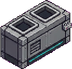
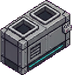
製造機のサイズを規程どおりに揃え、絵に「スロットの穴」を要求しないようにした
生成された絵は台ごとにマスピッチが違う(アラビアで1マス 92/69/58/48px)ため、
幅だけを占有外周に合わせると長い台ほど筐体が高くなっていた(実測 normal で
1.04→1.42 CELL、arabia で 0.91→1.17 CELL)。同じ機械の長さ違いなので誤り。

- cut_machines.py: 幅=占有外周の幅 / 高さ=占有外周の高さ+共通の筐体高(4台の中央値)
  として縦横別々に合わせる。歪みは最大9%で、15%を超えたら警告を出す
- 素材アイコンは占有マスの真上に置く方式に変更。絵の意匠に依存しないので
  スロットの穴を描く必要がなくなった。mach-fit.json と穴検出は廃止

diff --git a/game/main.js b/game/main.js
@@ -222,13 +222,13 @@ class Main extends Phaser.Scene {
     for(const n of ['haunted','pirate','circuit','dwarf','hell','steampunk','retrofuture','tokyo','halloween','western','sushi','beehive','circus','carnival','desert','jungle','egypt','christmas','space','ice','mushroom','onsen']) this.load.image('room_'+n, `assets/room-${n}.png`);
     for(const n of PROP_NAMES) this.load.image('prop_'+n, `assets/prop_${n}.png`);
     for(const s of SKINS) if(s.id!=='none') this.load.image('hat_'+s.id, `assets/hat-${s.id}.png`);   // 被り物。未生成でもPhaserは欠損扱い→描画側でexistsチェック
-    this.load.text('hatfit','assets/hat-fit.json');   // 被り物ごとのツバ中心(cx=幅比)。非対称な飾りでも頭の中心で被る(machfitと同じ理由でtext読み)
+    this.load.text('hatfit','assets/hat-fit.json');   // 被り物ごとのツバ中心(cx=幅比)。非対称な飾りでも頭の中心で被る(load.json は中身が壊れるとローダーごと落ちるので text 読み)
     for(const d of DECOR) this.load.image('dec_'+d, `assets/obj_${d}.png`);
     // 製造機スプライト(Stitch製)。命名規約 mach_<theme>_s<N>。無いテーマは normal → 手続き描画 の順にフォールバック
     for(const th of MACH_ART) for(const n of MACH_SIZES) this.load.image(`mach_${th}_s${n}`, `assets/mach-${th}-s${n}.png`);
     // 絵から実測したスロット中心(幅/高さ比)。素材アイコンを穴にぴったり載せる。
     // load.json は中身が壊れているとローダーごと例外で落ちる(=create()が走らない)ので text で読んで自前parse
-    this.load.text('machfit','assets/mach-fit.json');
+
   }
   create(){
     this.bgImg=this.add.image(0,0,'bg_room').setOrigin(0,0).setDisplaySize(W,H).setDepth(-1000);
@@ -345,14 +345,6 @@ class Main extends Phaser.Scene {
   hatFit(){ if(this._hatFit) return this._hatFit;
     try{ this._hatFit=JSON.parse(this.cache.text.get('hatfit')||'{}'); }catch(_){ this._hatFit={}; }
     return this._hatFit; }
-  machFit(){ if(this._machFit) return this._machFit;
-    try{ this._machFit=JSON.parse(this.cache.text.get('machfit')||'{}'); }catch(_){ this._machFit={}; }
-    return this._machFit; }
-  machSlotPts(tex, img, flip){
-    const fit=((this.machFit()[tex.theme])||{})[String(tex.n)];
-    if(!fit) return null;
-    const L=img.x-img.displayWidth/2, T=img.y-img.displayHeight;
-    return fit.map(([fx,fy])=>({ x:L+(flip?1-fx:fx)*img.displayWidth, y:T+fy*img.displayHeight })); }
   _makeMachine(e, objs){
     const sk=this.partsSkin();
     const [A,B,C,D]=this._machFootprint(e);
@@ -361,7 +353,7 @@ class Main extends Phaser.Scene {
     const u=(e.cell.c+0.5)/GU, v=(e.cell.r+0.5)/GV, tint=this.tintByLight(u,v);
     const tex=this.machTex(e);
     const g=this.add.graphics().setDepth(C.y+0.1); objs.push(g); e._gfx=g;
-    let HG, slotPts=null;   // 天面の高さ(px) / スロット中心(スプライトのときは絵から実測)
+    let HG;   // 天面の高さ(px)。素材アイコンはこのぶん持ち上げて各マスの真上に置く
     if(tex){
       // 素材の footprint 幅はゲーム側の占有外周と一致するよう焼いてある(tools/cut_machines.py)
       const img=this.add.image((bx0+bx1)/2, by1, tex.key).setOrigin(0.5,1).setDepth(C.y).setTint(tint);
@@ -369,7 +361,6 @@ class Main extends Phaser.Scene {
       if(e.dir==='v') img.setFlipX(true);   // 素材はu方向。v方向は左右反転で角度が合う
       objs.push(img); e._lit=img; this.lit.push({sp:img,u,v});
       HG = Math.max(2, img.displayHeight-(by1-by0));
-      slotPts = this.machSlotPts(tex, img, e.dir==='v');
       const sh=this.add.image((bx0+bx1)/2+3, by1-2, 'shadow').setDepth(C.y-0.5)
         .setDisplaySize((bx1-bx0)*0.95,(by1-by0)*0.7).setAlpha(0.42); objs.push(sh);
     } else {
@@ -393,10 +384,11 @@ class Main extends Phaser.Scene {
     const SL=MACH_GEO.slot;
     this.cellsOf(e).forEach((q,idx)=>{
       const mat=e.slots[idx], m=mat&&MAT_ART[mat];
-      const ctr = (slotPts && slotPts[idx]) || up(cellXY(q.c,q.r));   // 絵の実測位置 > 計算位置
-      if(slotPts){ if(m){ g.fillStyle(m.c,0.5); g.fillEllipse(ctr.x,ctr.y,CELL*0.46,CELL*0.24);
-                          g.lineStyle(1.5,sk.glow,0.85); g.strokeEllipse(ctr.x,ctr.y,CELL*0.46,CELL*0.24); } }
-      else {   // 手続き描画: 穴そのものを描く
+      const ctr = up(cellXY(q.c,q.r));   // 各マスの中心の真上。筐体高さは4台で揃えてある
+      if(tex){ // スプライトは意匠が自由なので穴は描かない。素材が入っているマスだけ光らせる
+        if(m){ g.fillStyle(m.c,0.5); g.fillEllipse(ctr.x,ctr.y,CELL*0.46,CELL*0.24);
+               g.lineStyle(1.5,sk.glow,0.85); g.strokeEllipse(ctr.x,ctr.y,CELL*0.46,CELL*0.24); } }
+      else {   // 手続き描画のときだけ、置き場が分かるよう穴を描く
         const s0=uvXY((q.c+0.5-SL/2)/GU,(q.r+0.5-SL/2)/GV), s1=uvXY((q.c+0.5+SL/2)/GU,(q.r+0.5-SL/2)/GV);
         const s2=uvXY((q.c+0.5+SL/2)/GU,(q.r+0.5+SL/2)/GV), s3=uvXY((q.c+0.5-SL/2)/GU,(q.r+0.5+SL/2)/GV);
         const poly=[s0,s1,s2,s3].map(up);

diff --git a/tools/cut_machines.py b/tools/cut_machines.py
@@ -4,12 +4,14 @@
     使い方: python3 tools/cut_machines.py
 
 入力 : assets/mach-sheets/<theme>.png   … 左上から 2/3/4/5 マス機の順(2x2)
-出力 : assets/mach-<theme>-s<N>.png     … 透過PNG・ゲーム内の表示幅ちょうど
-       assets/mach-fit.json             … 素材ごとのスロット中心(スプライト幅/高さに対する比)
+出力 : assets/mach-<theme>-s<N>.png     … 透過PNG・ゲーム内の表示サイズちょうど
 
-なぜ mach-fit.json が要るか:
-  絵の筐体の比率は、ゲーム側で計算する占有外周の比率とぴったりは一致しない。
-  スロット位置を計算で出すと素材アイコンが絵の穴からズレるので、絵から実測して持たせる。
+サイズの決め方（ここが肝）:
+  4台は「同じ機械の長さ違い」なので、**筐体の高さは4台とも同じ**でなければならない。
+  ところが生成された絵は台ごとにマスピッチが違う（例: アラビアで1マス 92/69/58/48px）。
+  幅だけ占有外周に合わせると、長い台ほど筐体が高くなってしまう（実測で最大+37%）。
+  そこで幅=占有外周の幅、高さ=占有外周の高さ+共通の筐体高、として**縦横別々に**合わせる。
+  共通の筐体高は4台の中央値。歪みは数%に収まるが、閾値を超えたら警告を出す。
 
 なぜ表示幅まで縮小するか:
   Phaser は pixelArt:true (NEAREST) なので、245px の素材を 155px で描くとピクセルが
@@ -92,7 +94,7 @@ def key_out(im):
     return im
 
 
-def slot_centers(sp, n):
+def _unused_slot_centers(sp, n):
     """スプライトから凹みスロットの中心を実測する。
     穴は「面積のある暗い塊」。輪郭線と区別するため収縮して残るものだけを拾う。"""
     w, h = sp.size
@@ -162,9 +164,16 @@ def slot_centers(sp, n):
     return cs
 
 
+def target_height(n, W, H, GU, GV, iso, IN):
+    """u方向にNマス並べたときの、占有外周の画面bbox高さ(px)。筐体の高さは含まない"""
+    return abs((n - 2 * IN) / GU * iso['uy'] * H) + abs((1 - 2 * IN) / GV * iso['vy'] * H)
+
+
+MAX_WARP = 0.15   # 縦の歪みがこれを超えたら警告(背の高い意匠を潰している可能性)
+
+
 def main():
     W, H, GU, GV, iso, IN = main_js_consts()
-    fit = {}
     for f in sorted(os.listdir(SHEETS)):
         if not f.lower().endswith('.png'):
             continue
@@ -172,6 +181,8 @@ def main():
         sheet = key_out(Image.open(os.path.join(SHEETS, f)))
         sw, sh = sheet.size
         print(f'== {f} ({sw}x{sh})')
+        # 1周目: 切り出して、幅を占有外周に合わせたときの「筐体の高さ」を測る
+        cut = []
         for i, n in enumerate(SIZES):
             cx, cy = i % COLS, i // COLS
             quad = sheet.crop((cx * sw // COLS, cy * sh // ROWS,
@@ -181,26 +192,26 @@ def main():
                 print(f'   s{n}: 中身なし・スキップ'); continue
             sp = quad.crop(bb)
             tw = target_width(n, W, H, GU, GV, iso, IN)
-            th = max(1, round(sp.height * tw / sp.width))
-            out = sp.resize((round(tw), th), Image.LANCZOS)
+            fh = target_height(n, W, H, GU, GV, iso, IN)
+            hw = sp.height * tw / sp.width          # 幅だけ合わせたときの高さ
+            cut.append((n, sp, tw, fh, hw - fh))    # 末尾 = そのときの筐体高
+        if not cut:
+            continue
+        bodies = sorted(c[4] for c in cut)
+        body = bodies[len(bodies) // 2]             # 共通の筐体高 = 中央値
+        print(f'   共通の筐体高 = {body:.1f}px (実測 {", ".join(f"{c[4]:.0f}" for c in cut)})')
+
+        # 2周目: 幅=占有外周の幅 / 高さ=占有外周の高さ+共通の筐体高 で焼く
+        for n, sp, tw, fh, b in cut:
+            th = fh + body
+            warp = th / (fh + b) - 1                # 縦の歪み
+            out = sp.resize((round(tw), round(th)), Image.LANCZOS)
             path = os.path.join(OUT, f'mach-{theme}-s{n}.png')
             out.save(path)
-            cs = slot_centers(out, n)
-            if cs:
-                fit.setdefault(theme, {})[str(n)] = [[round(x / out.width, 4), round(y / out.height, 4)] for x, y in cs]
-                gap = (cs[-1][0] - cs[0][0]) / (n - 1)
-                note = f'スロット{n}個 検出 (間隔 {gap:.1f}px)'
-            else:
-                note = f'!! スロット検出に失敗({n}個見つからず) → 計算位置で描画'
-            pitch = sp.width / n      # 素材側の1マスあたりの幅(整合の目安)
-            print(f'   s{n}: 原寸 {sp.width}x{sp.height} (1マス={pitch:.0f}px) '
-                  f'→ {out.width}x{out.height}  {note}')
+            flag = '  !! 縦の歪みが大きい' if abs(warp) > MAX_WARP else ''
+            print(f'   s{n}: 原寸 {sp.width}x{sp.height} → {out.width}x{out.height}'
+                  f'  筐体 {b:.0f}→{body:.0f}px  縦{warp*+100:+.1f}%{flag}')
 
-
-    import json
-    with open(os.path.join(OUT, 'mach-fit.json'), 'w', encoding='utf-8') as fp:
-        json.dump(fit, fp, ensure_ascii=False, indent=1)
-    print('\nwrote assets/mach-fit.json')
 
 
 if __name__ == '__main__':
